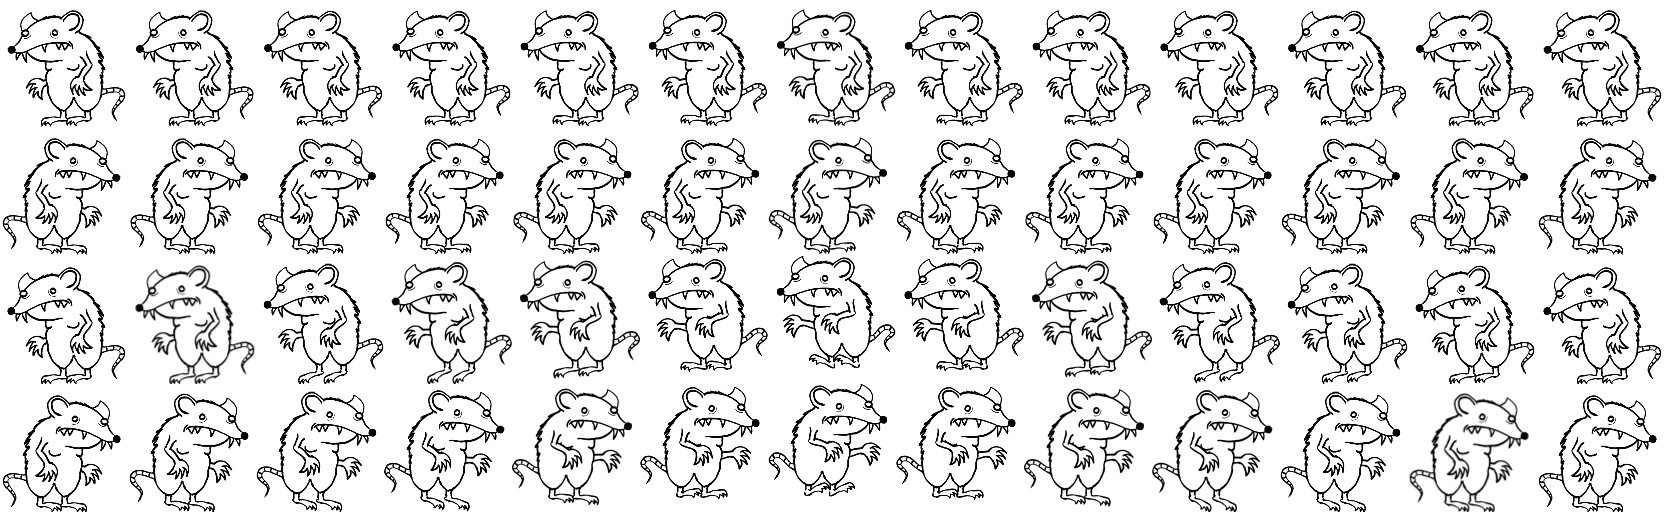
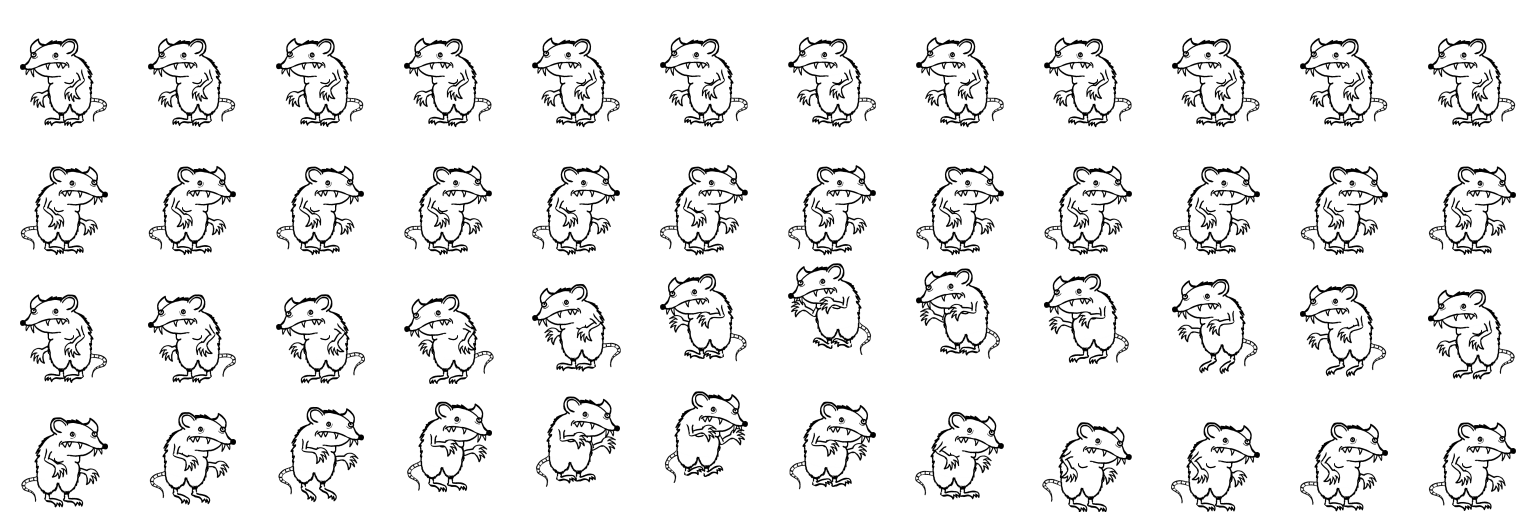
New ratman texture, fixed issue with battle start

Changed region(s): [[0.0, 0.0, 1.0, 1.0]]

diff --git a/GameProject/ECS/Systems/EntityVisionSystem.cpp b/GameProject/ECS/Systems/EntityVisionSystem.cpp
@@ -63,18 +63,20 @@ void EntityVisionSystem::handleEntityReachTileEvent(IEvent * event)
 	PlayerReachTileEvent *currentEvent = dynamic_cast<PlayerReachTileEvent *>(event);
 	if (nullptr != currentEvent)
 	{
-		if (m_entityContainer->HasComponent(currentEvent->entity, typeName<AIControlledComponent>()))
-			LOG("Enemy " + std::to_string(currentEvent->entity) + " has reached coords " + std::to_string(currentEvent->pos.x) + ":" + std::to_string(currentEvent->pos.y));
-		else
-			LOG("Player " + std::to_string(currentEvent->entity) + " has reached coords " + std::to_string(currentEvent->pos.x) + ":" + std::to_string(currentEvent->pos.y));
+        if (m_entityContainer->HasComponent(currentEvent->entity, typeName<AIControlledComponent>()))
+            LOG("Enemy " + std::to_string(currentEvent->entity) + " has reached coords " + std::to_string(currentEvent->pos.x) + ":" + std::to_string(currentEvent->pos.y));
+        else
+        {
+            LOG("Player " + std::to_string(currentEvent->entity) + " has reached coords " + std::to_string(currentEvent->pos.x) + ":" + std::to_string(currentEvent->pos.y));
 
-		std::vector<EntityId> enemiesInBattle = checkEnemyInSight(currentEvent->entity);
-		if (!enemiesInBattle.empty())
-		{
-			LOG("Battle!");
-			m_eventDispatcher->dispatch<BattleStartedEvent>(enemiesInBattle);
-		}
-	}
+            std::vector<EntityId> enemiesInBattle = checkEnemyInSight(currentEvent->entity);
+            if (!enemiesInBattle.empty())
+            {
+                LOG("Battle!");
+                m_eventDispatcher->dispatch<BattleStartedEvent>(enemiesInBattle);
+            }
+        }
+    }
 }
 
 std::vector<EntityId> EntityVisionSystem::checkEnemyInSight(EntityId character)

diff --git a/GameProject/GameEngine.cpp b/GameProject/GameEngine.cpp
@@ -127,18 +127,18 @@ void GameEngine::handleMouseInput(const Vector2i& mouseCoords)
 	Vector2f mapTile = m_map->orthoXYfromIsometricCoords(Vector2f(mouse.x, mouse.y));
 
 
-//	EntityMapPositionSystem* EPSystem = getSystem<EntityMapPositionSystem>(typeName<EntityMapPositionSystem>());
-//	EntityId entity = EPSystem->getEntityAtCoordinates(Vector2f(mouse.x, mouse.y));
-//	if (entity != INVALIDID)
-//	{
-//		if (std::find(m_characters.begin(), m_characters.end(), entity) != m_characters.end())
-//		{
-//			m_activeCharacter = entity;
-//			LOG("Active entity: " + std::to_string(m_activeCharacter));
-//			//send active char changed event
-//			return;
-//		}
-//	}
+    EntityMapPositionSystem* EPSystem = getSystem<EntityMapPositionSystem>(typeName<EntityMapPositionSystem>());
+    EntityId entity = EPSystem->getEntityAtCoordinates(Vector2f(mouse.x, mouse.y));
+    if (entity != INVALIDID)
+    {
+//        if (std::find(m_characters.begin(), m_characters.end(), entity) != m_characters.end())
+//        {
+            m_activeCharacter = entity;
+            LOG("Active entity: " + std::to_string(m_activeCharacter));
+            //send active char changed event
+            return;
+//        }
+    }
 
     if (m_activeCharacter == INVALIDID)
         return;

diff --git a/GameProject/Map.cpp b/GameProject/Map.cpp
@@ -7,9 +7,9 @@
 #include <stdlib.h>
 #include "Events/Events.h"
 #include "Utils/Logger.h"
-#include "Utils/Utility.h"
+#include "Utils/utility.h"
 
-MapTile::MapTile(): m_walkable(true), m_empty(false)
+MapTile::MapTile(): m_walkable(true), m_empty(false), m_transparent(true)
 {
 }
 
@@ -54,6 +54,7 @@ void MapTile::setEmpty(bool empty)
 
 void MapTile::setTransparent(bool transparent)
 {
+    m_transparent = transparent;
 }
 
 void MapTile::setPosition(const Vector2f & position)

diff --git a/GameProject/Gui/Base/Button.cpp b/GameProject/Gui/Base/Button.cpp
@@ -2,7 +2,7 @@
 #include "GuiManager.h"
 #include "../../Utils/Logger.h"
 
-Button::Button(const std::string &name, const GuiEventController& controller, Widget *parent): Widget(name, controller, parent)
+Button::Button(const std::string &name, const GuiEventController& controller, Widget *parent): Widget(name, controller, parent), m_toggled(false)
 {
     m_background.setFillColor(sf::Color(0, 0, 0, 95));
     m_background.setOutlineThickness(1);
